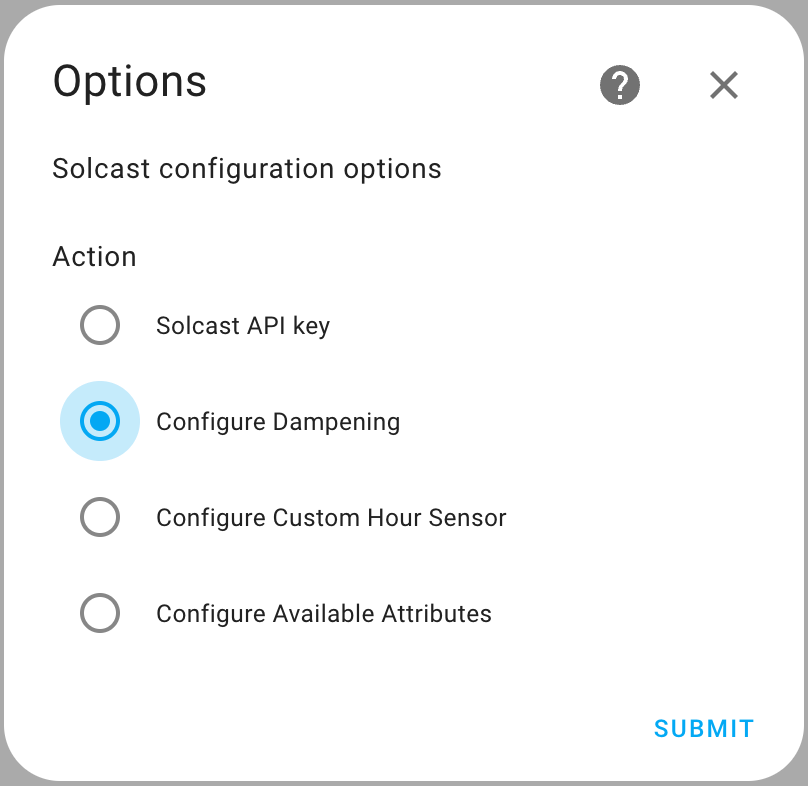
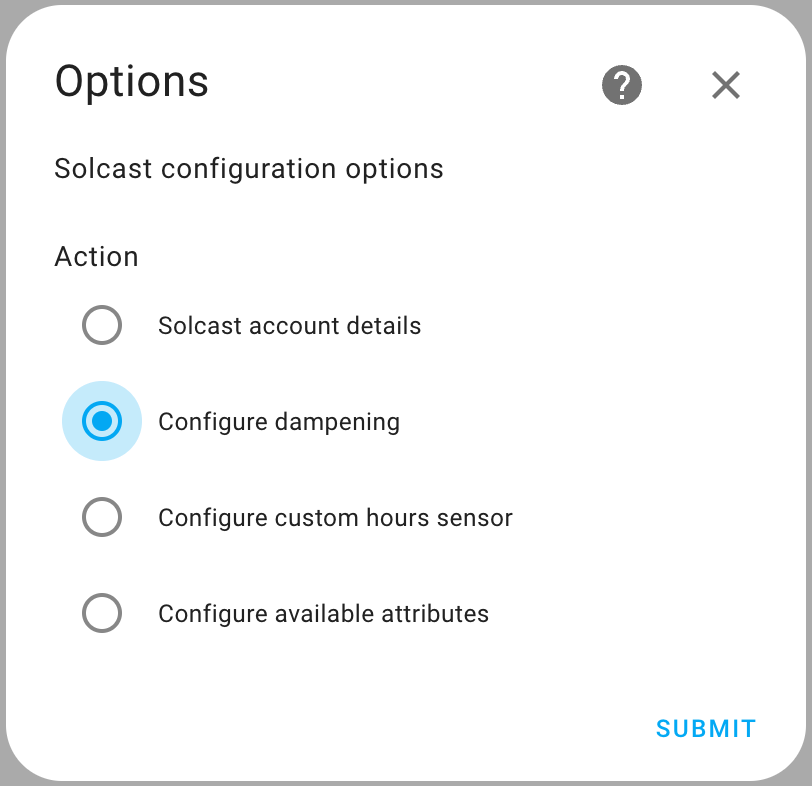
Configuration dialog improvements

diff --git a/README.md b/README.md
@@ -42,7 +42,7 @@ This custom component integrates the Solcast Hobby PV Forecast API into Home Ass
 > [!NOTE]  
 > Solcast have altered their API limits for new account creators
 >
-> Solcast now only offer new account creators a quota of 10 API calls per day (used to be 50). 
+> Solcast now only offer new account creators a limit of 10 API calls per day (used to be 50). 
 > Old account users still have 50 API calls.
 > 
 > The integration currently no longer includes auto API polling. Users now need to create their own automations to call the update solcast service to poll for new data. Keep in mind your API poll limit.
@@ -127,7 +127,7 @@ You probably **do not** want to do this! Use the HACS method above unless you kn
  
  [<img src="https://github.com/BJReplay/ha-solcast-solar/blob/main/.github/SCREENSHOTS/Setupanewintegration.png">](https://github.com/BJReplay/ha-solcast-solar/blob/main/.github/SCREENSHOTS/Setupanewintegration.png)
 
-1. Enter your `Solcast API Key`, `API quota` and click `Submit`. If you have more than one Solcast account because you have more than two rooftop setups, enter both account API keys separated by a comma `xxxxxxxx-xxxxx-xxxx,yyyyyyyy-yyyyy-yyyy` (_NB: this goes against Solcast T&C's by having more than one account_). If the API quota is the same for multiple accounts then enter a single value, or both values separated by a comma.
+1. Enter your `Solcast API Key`, `API limit` and click `Submit`. If you have more than one Solcast account because you have more than two rooftop setups, enter both account API keys separated by a comma `xxxxxxxx-xxxxx-xxxx,yyyyyyyy-yyyyy-yyyy` (_NB: this goes against Solcast T&C's by having more than one account_). If the API limit is the same for multiple accounts then enter a single value, or both values separated by a comma.
 1. Create your own automation to call the service `solcast_solar.update_forecasts` at the times you would like to update the solar forecast.
 1. Set up HA Energy Dashboard settings.
 1. To change other configuration options after installation, select the integration in `Devices & services` then `CONFIGURE`.
